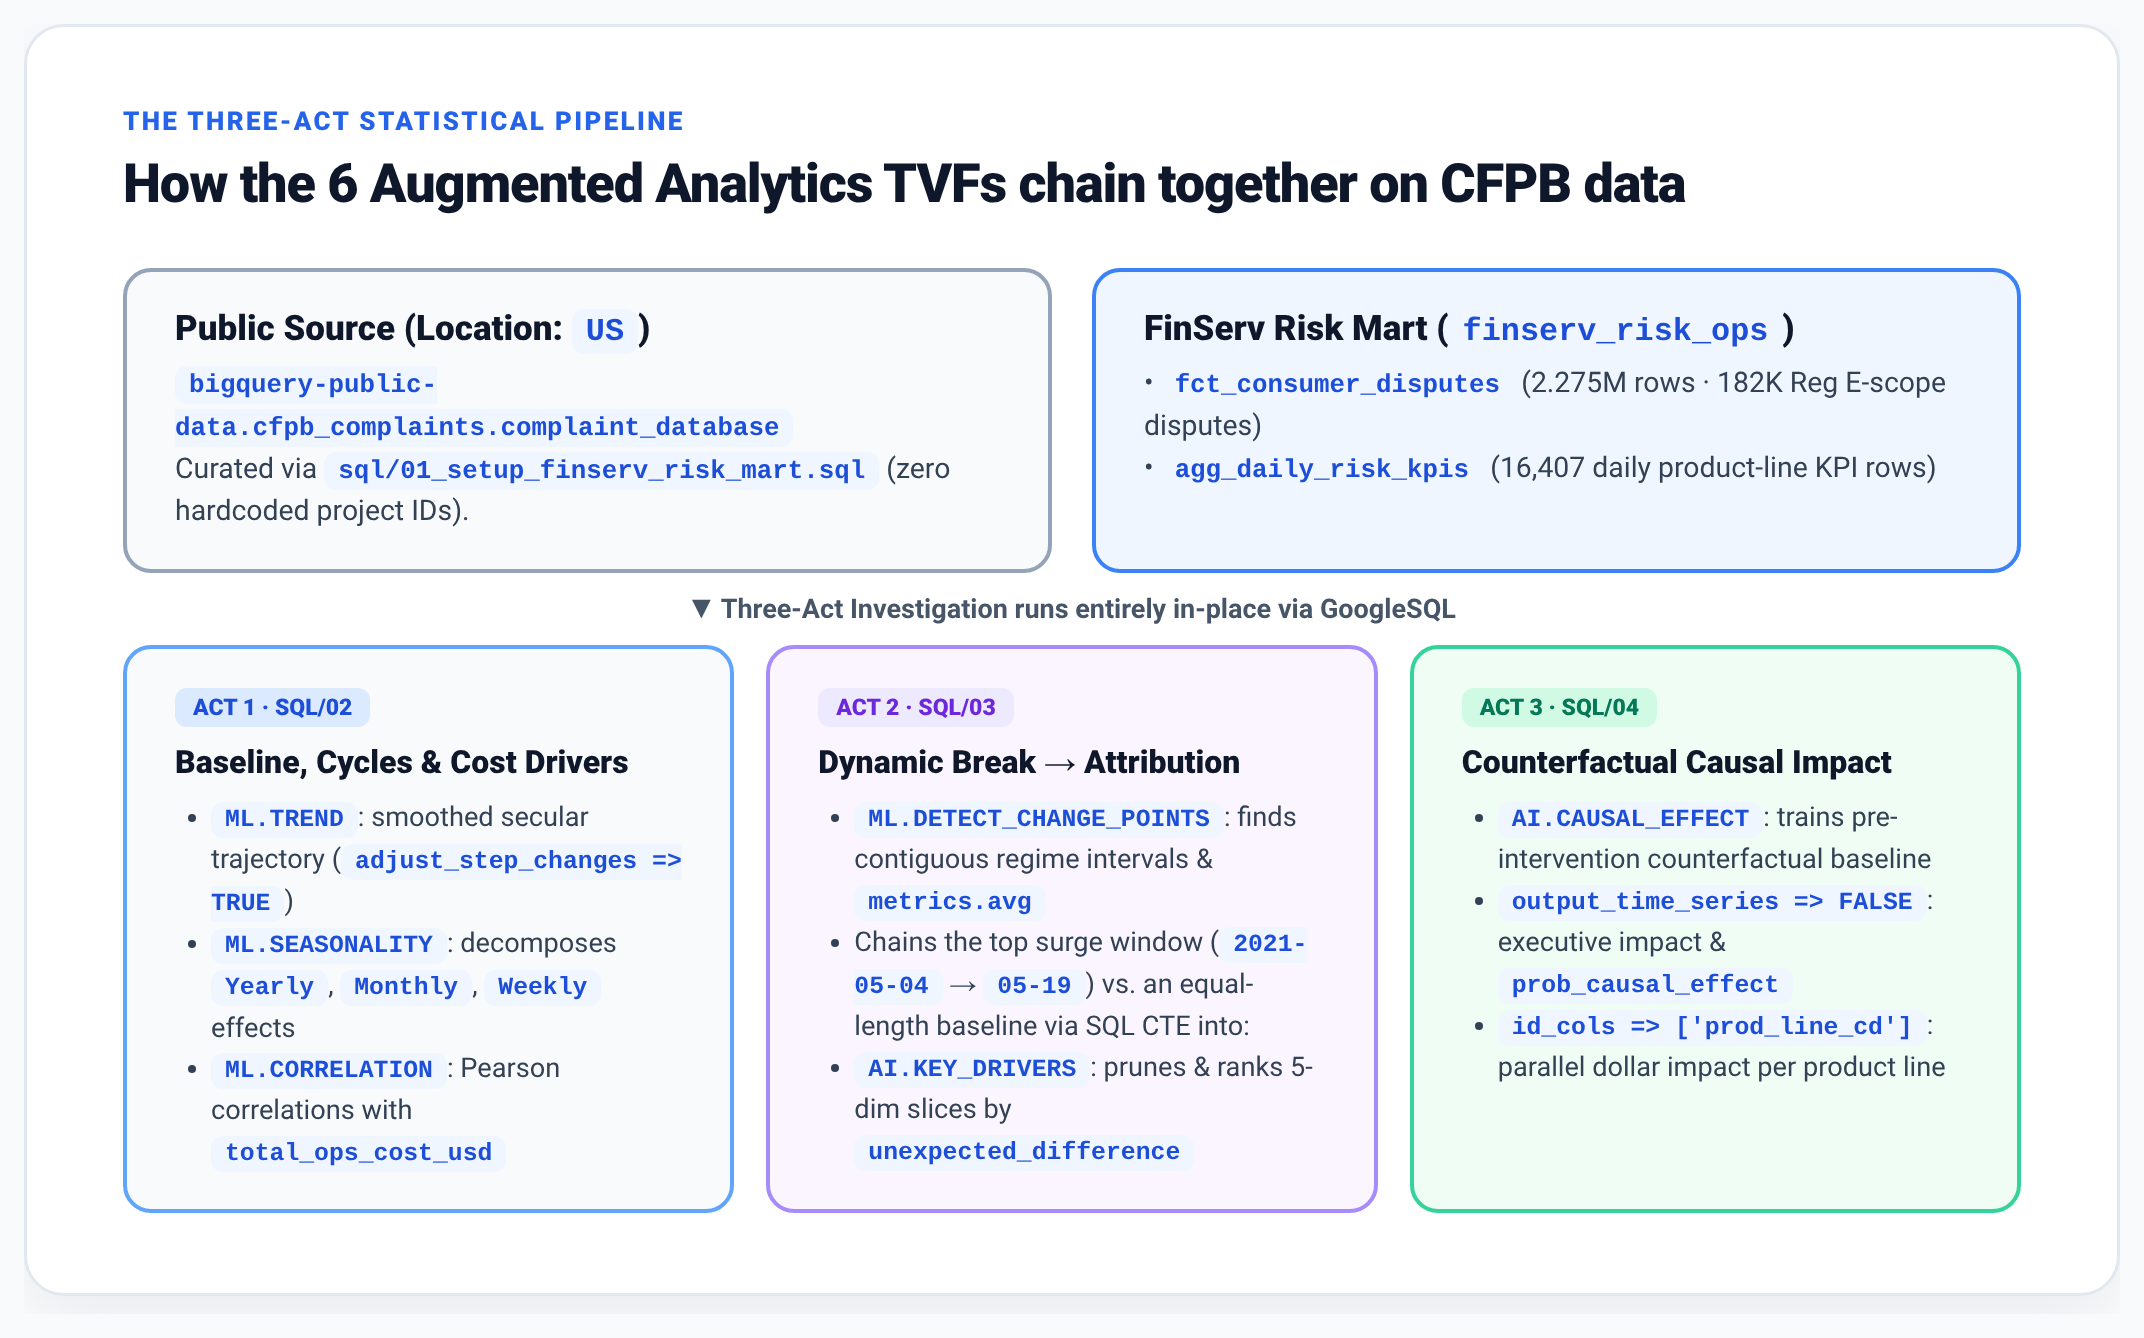
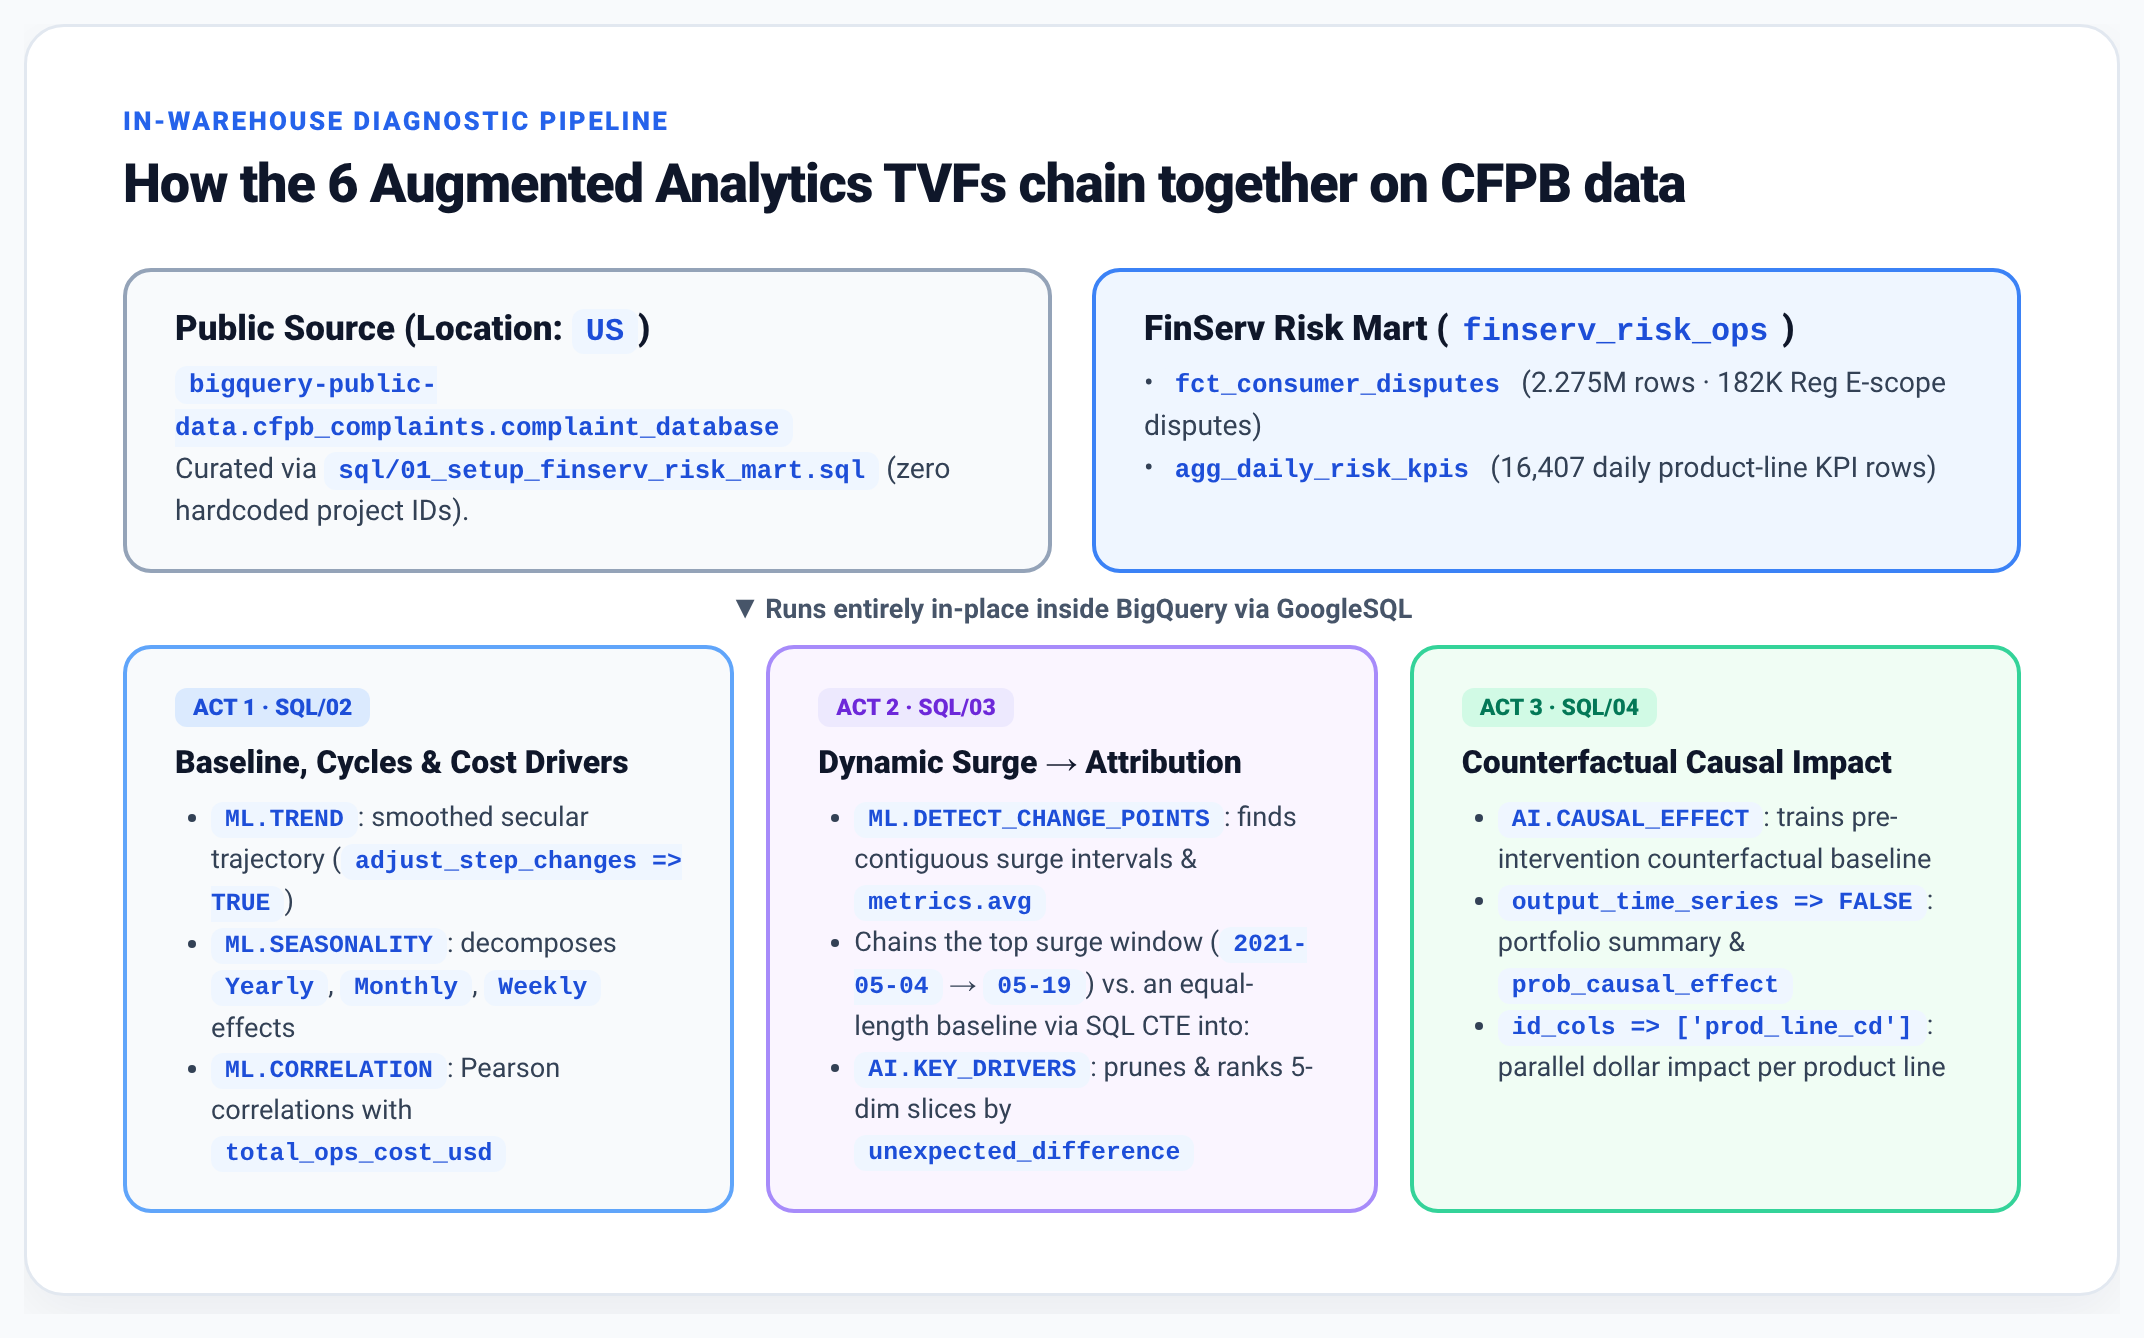
Update visual assets (Diagram 3 live counterfactual chart, Table 1/Diagram 4 fixes) and align Knowledge Catalog naming

diff --git a/README.md b/README.md
@@ -3,7 +3,7 @@
 [![GitHub Repository](https://img.shields.io/badge/GitHub-bq--agentic--analytics--finserv--tvfs-181717?logo=github)](https://github.com/Rajdipc/bq-agentic-analytics-finserv-tvfs)
 [![Google Cloud](https://img.shields.io/badge/Google%20Cloud-BigQuery%20AI%20%26%20ML-4285F4?logo=google-cloud)](https://cloud.google.com/bigquery)
 [![Augmented Analytics TVFs](https://img.shields.io/badge/GoogleSQL-6%20Augmented%20Analytics%20TVFs-FBBC04?logo=google-cloud)](https://cloud.google.com/blog/products/data-analytics/bigquery-augmented-analytics-tvfs)
-[![Knowledge Catalog](https://img.shields.io/badge/Knowledge%20Catalog-Dataplex%20Governance-34A853?logo=google-cloud)](https://docs.cloud.google.com/knowledge-catalog/docs/data-insights)
+[![Knowledge Catalog](https://img.shields.io/badge/Knowledge%20Catalog-Semantic%20Governance-34A853?logo=google-cloud)](https://docs.cloud.google.com/knowledge-catalog/docs/data-insights)
 [![Conversational Analytics](https://img.shields.io/badge/Conversational%20Analytics-BQCA%20Data%20Agents-EA4335?logo=google-cloud)](https://docs.cloud.google.com/bigquery/docs/conversational-analytics)
 [![Causal Inference & Time Series](https://img.shields.io/badge/Causal%20AI-Change%20Points%20%7C%20Key%20Drivers%20%7C%20Causal%20Effect-8E24AA)](https://cloud.google.com/bigquery/docs/reference/standard-sql/bigqueryml-syntax-causal-effect)
 [![Domain](https://img.shields.io/badge/FinServ-Reg%20E%20%26%20Payments%20Risk%20Ops-00897B)](https://www.consumerfinance.gov/data-research/consumer-complaints/)
@@ -30,7 +30,7 @@ An end-to-end, 100% GCP-native reference implementation for **Financial Services
 1. **Build the FinServ Risk Mart ([`sql/01`](https://github.com/Rajdipc/bq-agentic-analytics-finserv-tvfs/blob/main/sql/01_setup_finserv_risk_mart.sql)):** Open **BigQuery Studio**, paste and run [`sql/01_setup_finserv_risk_mart.sql`](https://github.com/Rajdipc/bq-agentic-analytics-finserv-tvfs/blob/main/sql/01_setup_finserv_risk_mart.sql). It automatically creates the `finserv_risk_ops` dataset in the `US` multi-region and transforms `bigquery-public-data.cfpb_complaints.complaint_database` into two tables (`fct_consumer_disputes` and `agg_daily_risk_kpis`) with realistic, intentionally cryptic core-banking column names (`reg_e_elig_flg`, `cust_esc_tier2_flg`, `mon_rel_ind`, `intake_fwd_lag_days`, `subm_chnl_cd`, `est_ops_cost_usd`).
 2. **Run the 3-Act Diagnostic SQL Chain ([`sql/02`](https://github.com/Rajdipc/bq-agentic-analytics-finserv-tvfs/blob/main/sql/02_act1_baseline_trend_seasonality_correlation.sql)–[`sql/04`](https://github.com/Rajdipc/bq-agentic-analytics-finserv-tvfs/blob/main/sql/04_act3_intervention_causal_effect.sql)):**
    * **Act 1 ([`sql/02_act1_baseline_trend_seasonality_correlation.sql`](https://github.com/Rajdipc/bq-agentic-analytics-finserv-tvfs/blob/main/sql/02_act1_baseline_trend_seasonality_correlation.sql)):** Extracts smoothed long-term trajectory (`ML.TREND`), decomposes `Yearly`/`Monthly`/`Weekly` cycles (`ML.SEASONALITY`), and computes per-product operational cost correlations (`ML.CORRELATION`).
-   * **Act 2 ([`sql/03_act2_change_points_and_key_drivers_chain.sql`](https://github.com/Rajdipc/bq-agentic-analytics-finserv-tvfs/blob/main/sql/03_act2_change_points_and_key_drivers_chain.sql)):** Detects structural regime shifts (`ML.DETECT_CHANGE_POINTS`) and dynamically chains the discovered `shift_date` into multi-dimensional root-cause attribution (`AI.KEY_DRIVERS`) with zero hardcoded dates.
+   * **Act 2 ([`sql/03_act2_change_points_and_key_drivers_chain.sql`](https://github.com/Rajdipc/bq-agentic-analytics-finserv-tvfs/blob/main/sql/03_act2_change_points_and_key_drivers_chain.sql)):** Detects statistically significant surges (`ML.DETECT_CHANGE_POINTS`) and dynamically chains the top surge window into multi-dimensional root-cause attribution (`AI.KEY_DRIVERS`) with zero hardcoded dates.
    * **Act 3 ([`sql/04_act3_intervention_causal_effect.sql`](https://github.com/Rajdipc/bq-agentic-analytics-finserv-tvfs/blob/main/sql/04_act3_intervention_causal_effect.sql)):** Quantifies counterfactual incremental Reg E disputes and per-product operational handling cost impact (`AI.CAUSAL_EFFECT` with `output_time_series => FALSE/TRUE` and `id_cols => ['prod_line_cd']`).
 3. **Compare "Before" vs. "After" Knowledge Catalog Grounding ([`sql/05`](https://github.com/Rajdipc/bq-agentic-analytics-finserv-tvfs/blob/main/sql/05_enrich_metadata_for_knowledge_catalog.sql) & [`docs/`](https://github.com/Rajdipc/bq-agentic-analytics-finserv-tvfs/tree/main/docs)):** Test an ungrounded BQCA conversation against the raw cryptic table, then run [`sql/05_enrich_metadata_for_knowledge_catalog.sql`](https://github.com/Rajdipc/bq-agentic-analytics-finserv-tvfs/blob/main/sql/05_enrich_metadata_for_knowledge_catalog.sql) and apply the 6 Glossary terms (`FinServ_Risk_Glossary`), Agent System Instructions (`FinServ_Payments_Risk_Agent`), and 3 Verified Queries from [`docs/knowledge_catalog_and_bqca_assets.md`](https://github.com/Rajdipc/bq-agentic-analytics-finserv-tvfs/blob/main/docs/knowledge_catalog_and_bqca_assets.md).
 4. **Audit Agent TVF Execution ([`sql/06`](https://github.com/Rajdipc/bq-agentic-analytics-finserv-tvfs/blob/main/sql/06_audit_bqca_agent_jobs.sql)):** Run [`sql/06_audit_bqca_agent_jobs.sql`](https://github.com/Rajdipc/bq-agentic-analytics-finserv-tvfs/blob/main/sql/06_audit_bqca_agent_jobs.sql) to inspect `region-us.INFORMATION_SCHEMA.JOBS` (filtering on `ca-bq-job = 'true'`) and verify the exact Augmented Analytics TVFs executed by the Data Agent.
@@ -115,10 +115,10 @@ bq query --location=US --use_legacy_sql=false < sql/99_teardown.sql
 |                                               |   |                                               |
 | - sql/05_enrich_metadata_for_knowledge_...sql |   | Act 1: Baseline & Cost Drivers (sql/02_...)   |
 | - Authoritative Table & Column Descriptions   |   |   - ML.TREND (adjust_step_changes => TRUE)    |
-| - Dataplex Data Profile & Data Insights       |   |   - ML.SEASONALITY (Yearly, Monthly, Weekly)  |
+| - Automated Data Profile & Data Insights      |   |   - ML.SEASONALITY (Yearly, Monthly, Weekly)  |
 | - Business Glossary (FinServ_Risk_Glossary):  |   |   - ML.CORRELATION (target: total_ops_cost)   |
 |   1. Reg E Qualifying Dispute                 |   |                                               |
-|   2. Tier-2 Customer Escalation               |   | Act 2: Regime Shift & Drivers (sql/03_...)    |
+|   2. Tier-2 Customer Escalation               |   | Act 2: Surge & Drivers (sql/03_...)           |
 |   3. Monetary Relief Ratio                    |   |   - ML.DETECT_CHANGE_POINTS                   |
 |   4. Intake-to-Network Routing Lag            |   |       └──> Chained via SQL CTE into:          |
 |   5. Regulatory SLA Breach                    |   |   - AI.KEY_DRIVERS (enable_pruning => TRUE)   |
